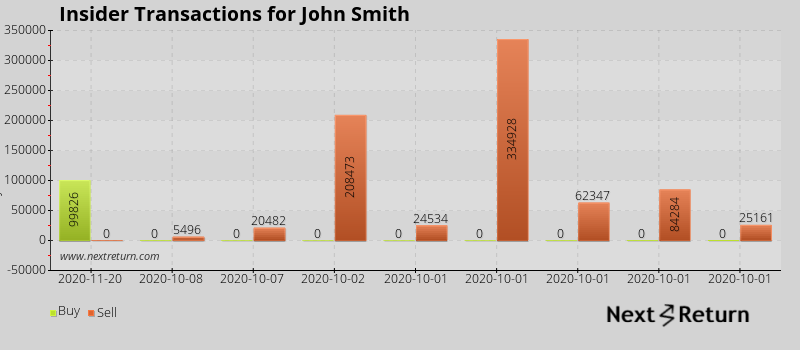
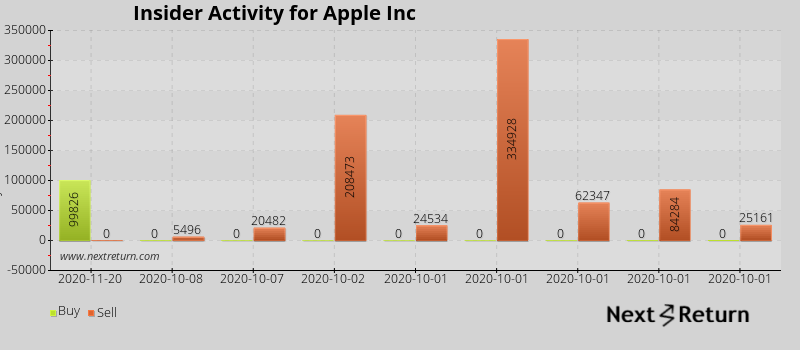
minor changes

Changed region(s): [[0.0625, 0.0, 0.5312, 0.0857]]

diff --git a/src/t05_szymach_c-pchart_nr_bar-chart.php b/src/t05_szymach_c-pchart_nr_bar-chart.php
@@ -29,10 +29,14 @@ function generateChart()
         $myPicture->drawGradientArea(0, 0, 800, 350, DIRECTION_VERTICAL, array("StartR" => 211, "StartG" => 211, "StartB" => 211, "EndR" => 211, "EndG" => 211, "EndB" => 211, "Alpha" => 100));
 // $myPicture->drawGradientArea(0,0,800,350,DIRECTION_HORIZONTAL,array("StartR"=>240,"StartG"=>240,"StartB"=>240,"EndR"=>240,"EndG"=>240,"EndB"=>240,"Alpha"=>20));
 
+        // $title = "Insider Activity for Gaming and Leisure Properties Inc";
+        $title = "Insider Activity for Apple Inc";
+
         $myPicture->setFontProperties(array("FontName" => "src/font/Open_Sans/OpenSans-Light.ttf", "FontSize" => 10));
 // $myPicture->drawText(35,25,"Insider Transactions for John Smith",array("R"=>255,"G"=>255,"B"=>255));
         $TextSettings = array("R" => 0, "G" => 0, "B" => 0, "FontSize" => 15, "FontName" => "src/font/Open_Sans/OpenSans-Bold.ttf", "Align" => TEXT_ALIGN_BOTTOMMIDDLE);
-        $myPicture->drawText(235, 25, "Insider Transactions for John Smith", $TextSettings);
+        // $myPicture->drawText(300, 25, "Insider Activity for Gaming and Leisure Properties Inc", $TextSettings);
+        $myPicture->drawText(275, 25, $title, $TextSettings);
 
 // add watermark
         $myPicture->drawFromPNG(600, 300, "src/watermark/next-return_logo_black-155x31.png");
